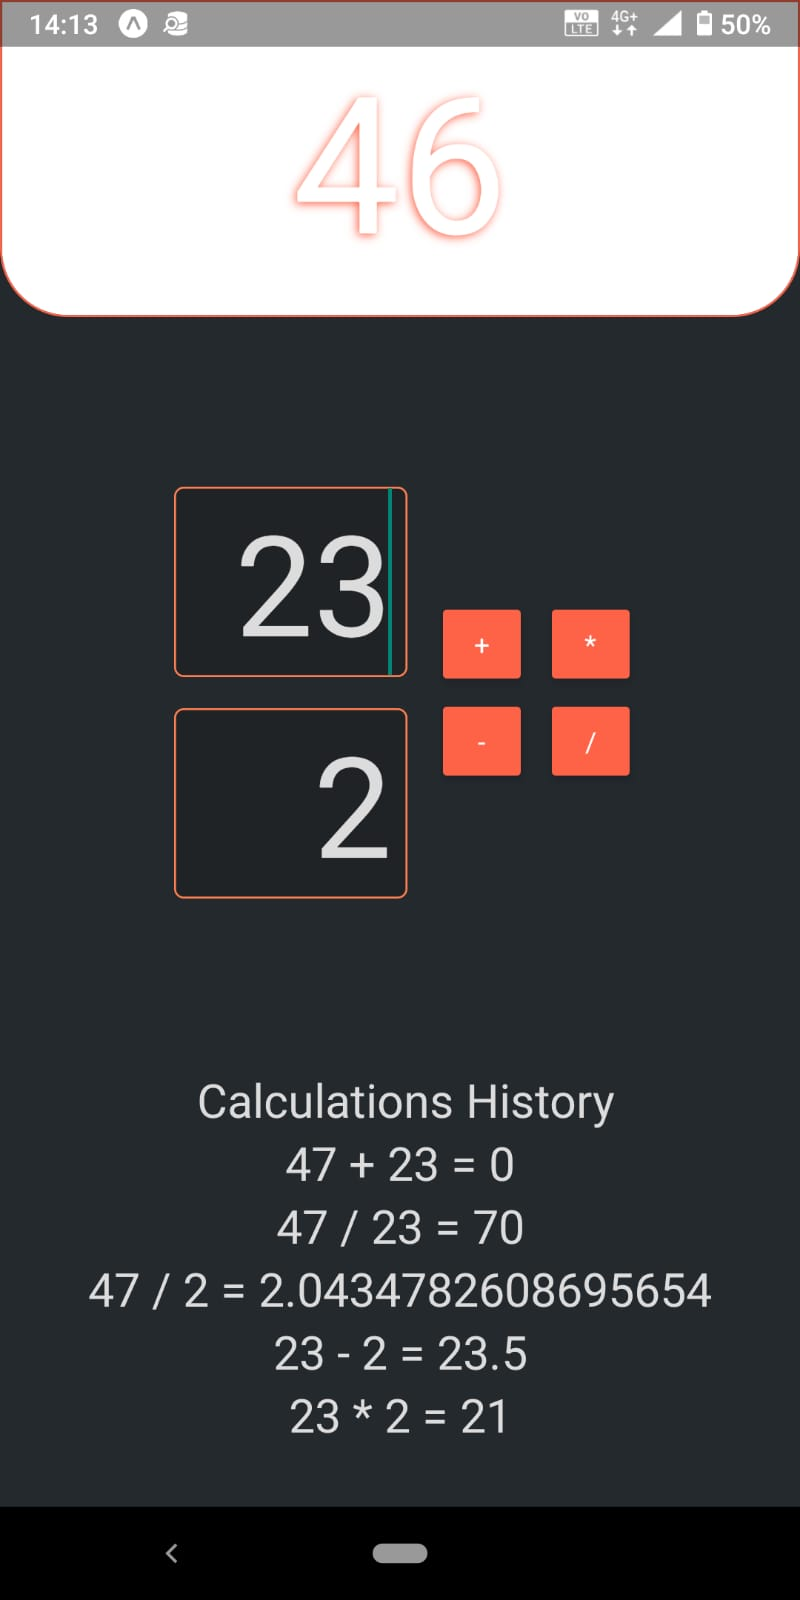
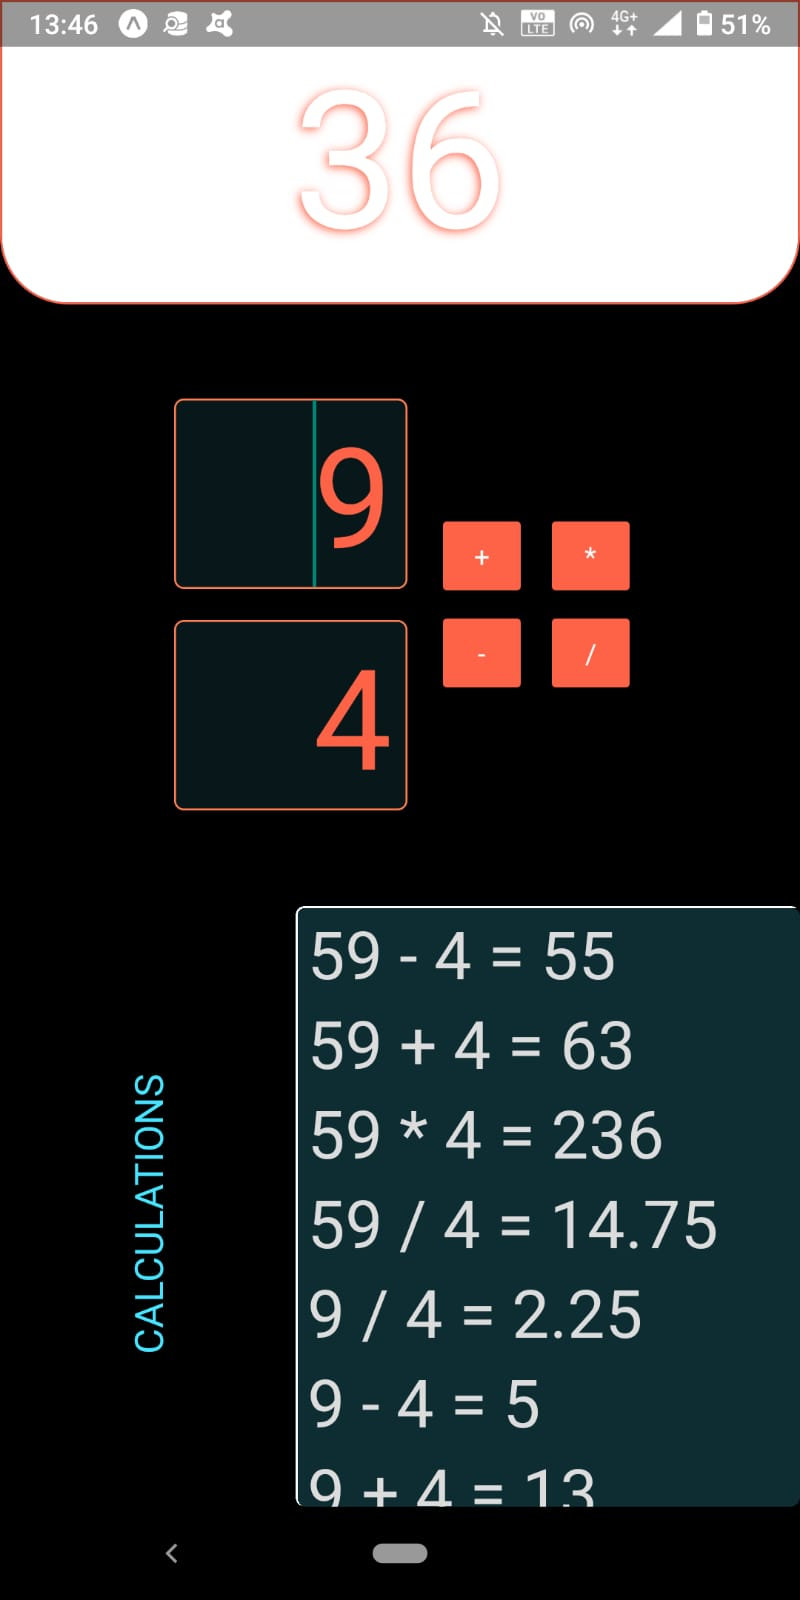
Fix RN03

diff --git a/React-Native/03historicCalculator/App.js b/React-Native/03historicCalculator/App.js
@@ -1,23 +1,33 @@
-import React, { useState } from 'react';
+import React, { useState, useEffect } from 'react';
 import { StyleSheet, Text, TextInput, View, Button, FlatList } from 'react-native';
 
 export default function App() {
 
   const [inputNum1, setInput1] = useState('');
   const [inputNum2, setInput2] = useState('');
-  const [result, setResult] = useState(0);
+  const [operator, setOperator] = useState('');
+  const [result, setResult] = useState('');
   const [history, setHistory] = useState([]);
 
-  const buttonPressed = (operator) => {
-    let operation = '';
-    (operator == '+') ? (setResult(parseInt(inputNum1) + parseInt(inputNum2)))
-    : (operator == '-') ? setResult(parseInt(inputNum1) - parseInt(inputNum2))
-    : (operator == '*') ? setResult(parseInt(inputNum1) * parseInt(inputNum2))
-    : setResult(parseInt(inputNum1) / parseInt(inputNum2));
+  const buttonPressed = (operatorInput) => {
+    (operatorInput == '+') ? setResult(parseInt(inputNum1) + parseInt(inputNum2))
+    : (operatorInput == '-') ? setResult(parseInt(inputNum1) - parseInt(inputNum2))
+    : (operatorInput == '*') ? setResult(parseInt(inputNum1) * parseInt(inputNum2))
+    : setResult(
+      Number.isInteger(parseInt(inputNum1) / parseInt(inputNum2)) 
+      ? parseInt(inputNum1) / parseInt(inputNum2)
+      : (parseInt(inputNum1) / parseInt(inputNum2)).toFixed(2)
+    );
 
-    operation = `${inputNum1} ${operator} ${inputNum2} = ${result}`;
-    setHistory([...history, {key: operation}]);
+    setOperator(operatorInput);
   }
+
+  useEffect(() => {
+    if (result) {
+      setHistory([...history, {key: `${inputNum1} ${operator} ${inputNum2} = ${result}`}]);
+    }
+    console.log('result useeffect:', result);
+  }, [result]);
 
   return (
     <View style={styles.container}>
@@ -48,8 +58,9 @@ export default function App() {
       </View>
 
       <View style={styles.history}>
-        <Text style={styles.historyText}> Calculations History</Text>
+        <Text style={styles.historyTitle}>Calculations</Text>
         <FlatList
+          style={styles.historyList}
           data={ history }
           renderItem={ ({item}) => 
             <Text style={styles.historyText}>{ item.key }</Text>}
@@ -65,7 +76,7 @@ const styles = StyleSheet.create({
     flexDirection: "column",
     justifyContent: 'center',
     alignItems: 'stretch',
-    backgroundColor: '#24292e',
+    backgroundColor: 'rgb(0,0,0)',
     color: 'white',
   },
   result: {
@@ -84,7 +95,7 @@ const styles = StyleSheet.create({
     borderBottomRightRadius: 35,
   },
   action: {
-    flex: 2.4,
+    flex: 2,
     flexDirection: 'row',
     justifyContent: 'center',
     alignItems: 'center',
@@ -94,13 +105,13 @@ const styles = StyleSheet.create({
     fontSize: 84,
   },
   inputText: {
-    color: 'gainsboro',
+    color: 'tomato',
     fontSize: 72,
     width: 120,
     marginHorizontal: 10,
     marginVertical: 8,
     paddingRight: 8,
-    backgroundColor: '#202325',
+    backgroundColor: 'rgba(71,227,255,.1)',
     borderColor: 'coral',
     borderRadius: 5,
     borderWidth: 1,
@@ -114,12 +125,31 @@ const styles = StyleSheet.create({
     height: 100,
   },
   history: {
-    flex: 1.4,
+    flex: 2,
+    flexDirection: 'row',
     alignItems: 'center',
+    justifyContent: 'center',
+    alignContent: 'center',
+    flexWrap: 'wrap',
+  },
+  historyTitle: {
+    flex:.6,
+    color:'#47e3ff',
+    fontSize: 20,
+    textTransform: 'uppercase',
+    transform: [ {rotate: '270deg' }],
+  },
+  historyList: {
+    flex:1,
+    backgroundColor:'rgba(71,227,255,.2)',
+    paddingStart: 5,
+    borderColor: 'white',
+    borderTopWidth: 1,
+    borderLeftWidth: 1,
+    borderRadius: 5,
   },
   historyText: {
-    textAlign: "left",
     color:'gainsboro',
-    fontSize: 24,
+    fontSize: 34,
   }
 });
